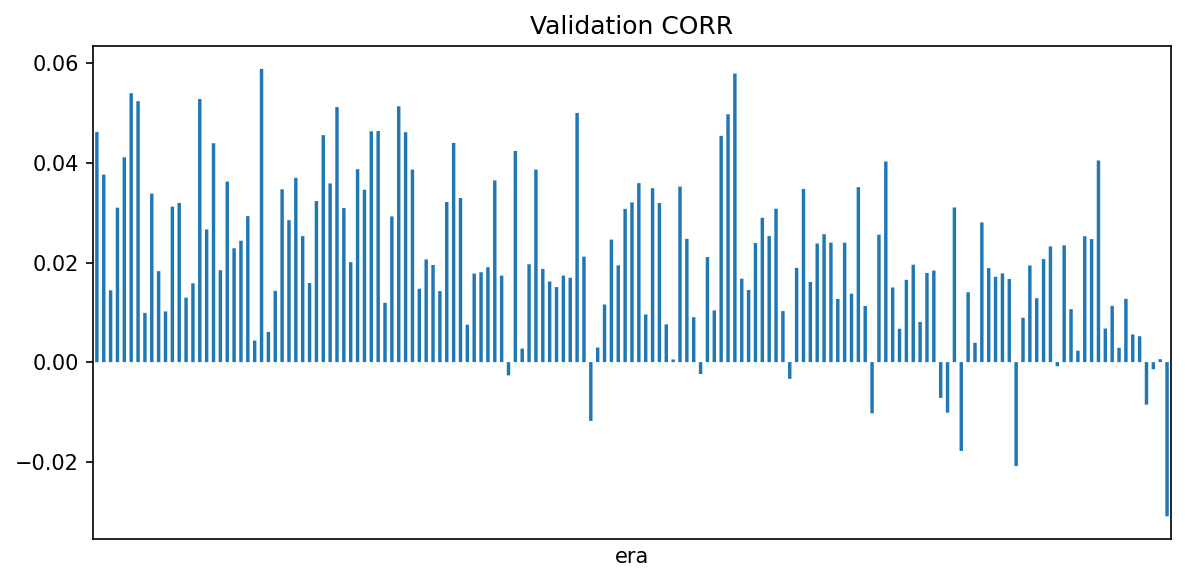
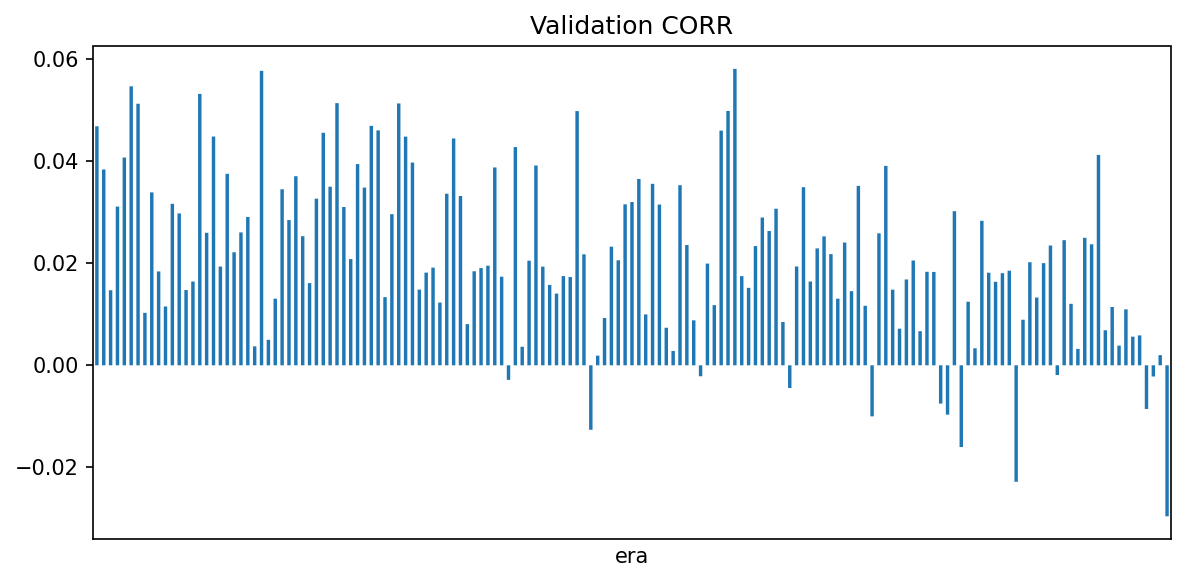
Transformer fix

diff --git a/local/03_2_train_transformer.py b/local/03_2_train_transformer.py
@@ -27,33 +27,68 @@ class FeatureEmbedding(layers.Layer):
         config.update({"d_model": self.d_model})
         return config
 
-class TransformerEncoderBlock(layers.Layer):
-    def __init__(self, d_model, num_heads, ffn_dim, dropout_rate, **kwargs):
+class LinformerAttention(layers.Layer):
+    def __init__(self, d_model, num_heads, k, **kwargs):
         super().__init__(**kwargs)
-        self.d_model, self.num_heads, self.ffn_dim, self.dropout_rate = d_model, num_heads, ffn_dim, dropout_rate
+        self.d_model, self.num_heads, self.k = d_model, num_heads, k
         self.mha = layers.MultiHeadAttention(num_heads=num_heads, key_dim=d_model // num_heads)
+    
+    def build(self, input_shape):
+        seq_len = input_shape[1]
+        self.E = self.add_weight(shape=(seq_len, self.k), initializer='glorot_uniform', trainable=True, name='E')
+        self.F = self.add_weight(shape=(seq_len, self.k), initializer='glorot_uniform', trainable=True, name='F')
+
+    def call(self, x, training=False):
+        k_proj = tf.einsum('bsd,sk->bkd', x, self.E)
+        v_proj = tf.einsum('bsd,sk->bkd', x, self.F)
+        return self.mha(x, v_proj, k_proj, training=training)
+
+    def get_config(self):
+        config = super().get_config()
+        config.update({"d_model": self.d_model, "num_heads": self.num_heads, "k": self.k})
+        return config
+
+class TransformerEncoderBlock(layers.Layer):
+    def __init__(self, d_model, num_heads, ffn_dim, dropout_rate, k=None, **kwargs):
+        super().__init__(**kwargs)
+        self.d_model, self.num_heads, self.ffn_dim, self.dropout_rate, self.k = d_model, num_heads, ffn_dim, dropout_rate, k
+        if k:
+            self.attn = LinformerAttention(d_model, num_heads, k)
+        else:
+            self.attn = layers.MultiHeadAttention(num_heads=num_heads, key_dim=d_model // num_heads)
         self.ffn = models.Sequential([layers.Dense(ffn_dim, activation='relu'), layers.Dense(d_model)])
         self.layernorm1, self.layernorm2 = layers.LayerNormalization(), layers.LayerNormalization()
         self.dropout1, self.dropout2 = layers.Dropout(dropout_rate), layers.Dropout(dropout_rate)
+
     def call(self, x, training=False):
-        attn_output = self.mha(x, x, training=training)
+        if self.k:
+            attn_output = self.attn(x, training=training)
+        else:
+            attn_output = self.attn(x, x, training=training)
         attn_output = self.dropout1(attn_output, training=training)
         x = self.layernorm1(x + attn_output)
         ffn_output = self.ffn(x, training=training)
         ffn_output = self.dropout2(ffn_output, training=training)
         x = self.layernorm2(x + ffn_output)
         return x
+
     def get_config(self):
         config = super().get_config()
-        config.update({"d_model": self.d_model, "num_heads": self.num_heads, "ffn_dim": self.ffn_dim, "dropout_rate": self.dropout_rate})
+        config.update({"d_model": self.d_model, "num_heads": self.num_heads, "ffn_dim": self.ffn_dim, "dropout_rate": self.dropout_rate, "k": self.k})
         return config
 
 def create_transformer_model(num_features):
     inputs = layers.Input(shape=(num_features,))
-    x = FeatureEmbedding(64)(inputs)
-    pos_encoding = tf.Variable(tf.random.normal([1, num_features, 64], stddev=0.02), trainable=True)
+    x = FeatureEmbedding(32)(inputs)
+    pos_encoding = tf.Variable(tf.random.normal([1, num_features, 32], stddev=0.02), trainable=True)
     x = x + pos_encoding
-    for _ in range(2): x = TransformerEncoderBlock(64, 4, 128, 0.1)(x)
+    
+    # ALBERT-style: Shared parameters across layers
+    # Linformer-style: k=32 bottleneck for attention
+    shared_encoder = TransformerEncoderBlock(32, 2, 64, 0.1, k=32)
+    for _ in range(4): # Increased depth but shared parameters
+        x = shared_encoder(x)
+        
     x = layers.GlobalAveragePooling1D()(x)
     x = layers.Dense(32, activation='relu')(x)
     x = layers.Dropout(0.1)(x)
@@ -65,6 +100,7 @@ def create_transformer_model(num_features):
 def main():
     parser = argparse.ArgumentParser(description="Numerai Transformer Training (Local CUDA)")
     parser.add_argument("--size", choices=["small", "medium", "all"], default="all")
+    parser.add_argument("--memory", choices=["low", "medium", "high"], default="high", help="Memory usage level for validation (low, medium, high). Higher memory usage will be slower but more accurate.")
     args = parser.parse_args()
     setup_gpu()
     with open("local/config.json") as f: config = json.load(f)
@@ -73,6 +109,15 @@ def main():
     feature_cols = feature_metadata["feature_sets"][args.size]
     
     train = pd.read_parquet(f"{DATA_VERSION}/train.parquet", columns=["era"] + feature_cols + ["target"])
+    
+    # Downsample to eras to reduce memory usage and speedup evaluation 
+    # Default is slower and higher memory usage, but more accurate evaluation.
+    if args.memory == "low":
+        train = train[train["era"].isin(train["era"].unique()[::4])]
+    if args.memory == "medium":
+        train = train[train["era"].isin(train["era"].unique()[::2])]
+
+    
     model = create_transformer_model(len(feature_cols))
     #model.fit(train[feature_cols].values.astype(np.float32), train["target"].values.astype(np.float32), epochs=20, batch_size=256, verbose=1)
     x_train = train[feature_cols].values.astype(np.float32)
@@ -80,10 +125,10 @@ def main():
 
     train_ds = tf.data.Dataset.from_tensor_slices((x_train, y_train))
     train_ds = train_ds.shuffle(5000, reshuffle_each_iteration=True)
-    train_ds = train_ds.batch(128)
+    train_ds = train_ds.batch(64)
     train_ds = train_ds.prefetch(tf.data.AUTOTUNE)
 
-    model.fit(train_ds, epochs=20, verbose=1)
+    model.fit(train_ds, epochs=5, verbose=1)
 
     if not os.path.exists("local/models"): os.makedirs("local/models")
     model.save("local/models/transformer_model.keras")

diff --git a/local/05_submit.py b/local/05_submit.py
@@ -43,6 +43,7 @@ def main():
 
     lgbm_weight = args.weights[0]
     nn_weight = args.weights[1]
+    tran_weight = 1 - lgbm_weight - nn_weight
     # Split targets and filter out empty strings
     requested_targets = [t.strip() for t in args.target.split(",") if t.strip()]
 
@@ -91,6 +92,8 @@ def main():
             batch_size=1024,
             verbose=0
         ).reshape(-1)
+        
+        # Rank NN predictions
         nn_rank = pd.Series(nn_pred, index=live_features.index).rank(pct=True)
 
         # 3. Optional Transformer (Commented Out)
@@ -98,7 +101,7 @@ def main():
         # trans_rank = pd.Series(trans_pred, index=live_features.index).rank(pct=True)
 
         # Final Weighted Blend
-        ensemble = (lgbm_weight * lgbm_ensemble_rank) + (nn_weight * nn_rank)
+        ensemble = (lgbm_weight * lgbm_ensemble_rank) + (nn_weight * nn_rank) # + (tran_weight * trans_rank)
         
         # Final ranked submission
         submission = ensemble.rank(pct=True, method="first")

diff --git a/local/04_2_validate_tran.py b/local/04_2_validate_tran.py
@@ -87,6 +87,8 @@ def main():
         .rank(pct=True)
         .mean(axis=1)
     )
+    # Rank LGBM ensemble predictions per era before ensembling with NN to put them on the same scale
+    validation["prediction_lgbm_ensemble"] = validation.groupby("era")["prediction_lgbm_ensemble"].rank(pct=True)
 
     # NN prediction
     validation["prediction_nn"] = nn_model.predict(
@@ -121,7 +123,11 @@ def main():
         0.25 * ranked["prediction_nn"] +
         0.5 * ranked["prediction_transformer"]
     )
-    
+
+    # Feature neutralize
+    validation["prediction"] = neutralize(
+        validation[["prediction"]], validation[feature_cols], proportion=0.01)["prediction"]
+
     # Rank final prediction per era
     validation["prediction"] = validation.groupby("era")["prediction"].rank(pct=True)
 

diff --git a/local/04_1_validate_nn.py b/local/04_1_validate_nn.py
@@ -84,10 +84,14 @@ def main():
 
     # Final combined ensemble
     validation["prediction"] = (
-        0.75 * ranked["prediction_lgbm_ensemble"] +
-        0.25 * ranked["prediction_nn"]
+        0.8 * ranked["prediction_lgbm_ensemble"] +
+        0.2 * ranked["prediction_nn"]
     )
-    
+
+    # Feature neutralize
+    validation["prediction"] = neutralize(
+        validation[["prediction"]], validation[feature_cols], proportion=0.01)["prediction"]
+
     # final rerank
     validation["prediction"] = validation.groupby("era")["prediction"].rank(pct=True)
 

diff --git a/README.md b/README.md
@@ -20,7 +20,7 @@ Self-contained project for training and submitting models to Numerai.
    ```bash
    python local/03_0_train_lgbm.py --size medium
    python local/03_1_train_nn.py --size medium
-   python local/03_2_train_transformer.py --size medium
+   python local/03_2_train_transformer.py --size medium --memory low  
    ```
 4. Validate models:
    It is important to use the same size for validation used in training per model.
